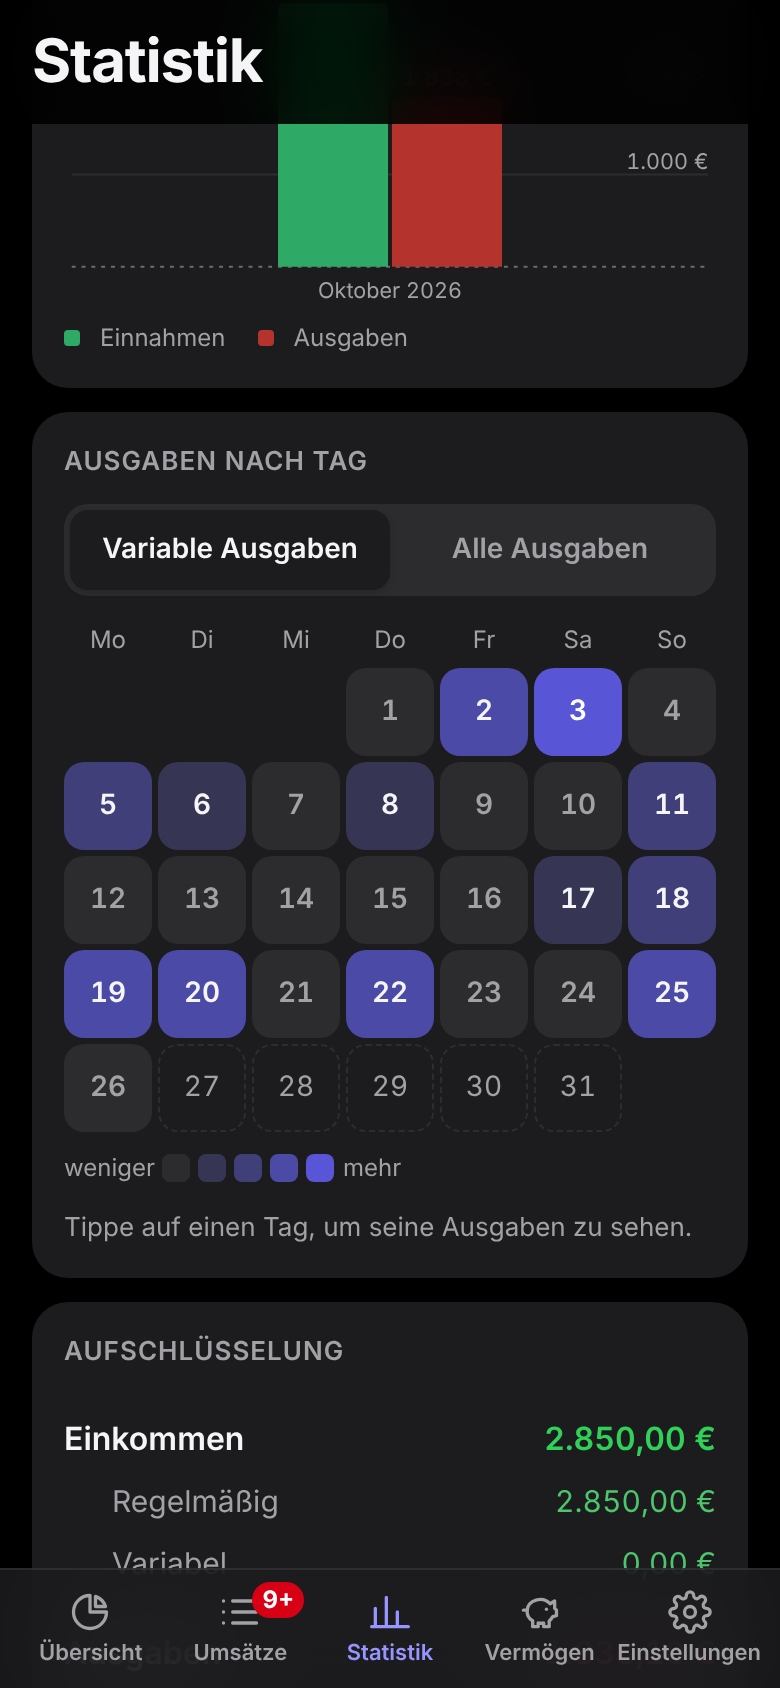
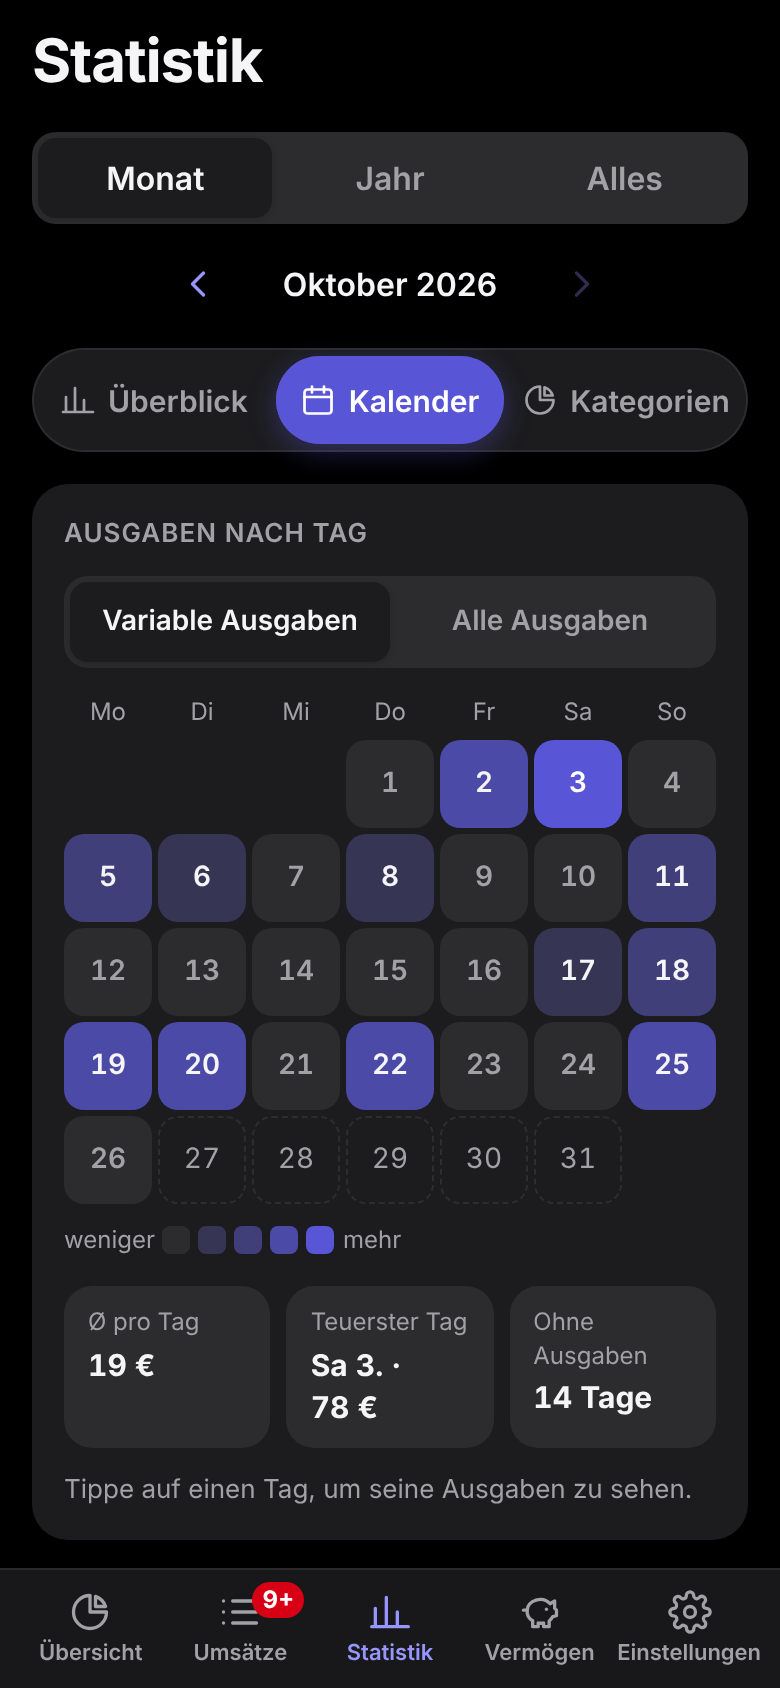
Statistics in sections: overview, calendar, categories; month facts in calendar (1.16.0)
Claude-Session: https://claude.ai/code/session_01QAm8hbi2NbAH5nWhDhnN4o

diff --git a/web/app-stats.js b/web/app-stats.js
@@ -26,6 +26,17 @@ function viewStats() {
       <button class="icon-btn" data-snav="1" aria-label="${t("vor")}" ${canNext ? "" : "disabled"}>${icon("chevronRight")}</button>
     </div>` : `<div class="period-label">${esc(label)}</div>`}`;
 
+  // Abschnitte statt einer langen Seite; den Kalender gibt es nur für Monat und Jahr
+  const sections = [["over", "chart", t("Überblick")], ...(p !== "all" ? [["cal", "calendar", t("Kalender")]] : []), ["cats", "pie", t("Kategorien")]];
+  const sec = sections.some(([k]) => k === state.statsSection) ? state.statsSection : "over";
+  html += `<nav class="sec-tabs" aria-label="${t("Bereich der Statistik")}" style="--n:${sections.length};--i:${sections.findIndex(([k]) => k === sec)}">
+      <span class="sec-pill" aria-hidden="true"></span>
+      ${sections.map(([k, ic, name]) => `<button data-ssec="${k}" aria-pressed="${k === sec}">${icon(ic)}<span>${name}</span></button>`).join("")}
+    </nav>`;
+  if (sec === "cal") return html + `<div class="sec-body">${heatCard(p, value)}</div>`;
+  if (sec === "cats") return html + `<div class="sec-body">${expenseCard(s, T)}</div>`;
+  html += `<div class="sec-body">`;
+
   // Kennzahlen mit Vergleich
   // Jahre werden über den Monatsschnitt verglichen (das erste Jahr ist oft unvollständig).
   const cmp = (curTotal, prevTotal, goodUp) => {
@@ -77,7 +88,6 @@ function viewStats() {
     </section>`;
   }
 
-  if (p !== "all") html += heatCard(p, value);
 
   // Aufschlüsselung
   const row = (label, cents, sub = false, cls = "") => `<div class="line-row ${sub ? "sub-row" : ""}"><span>${label}</span><span class="${cls}">${fmt(cents)}</span></div>`;
@@ -119,8 +129,7 @@ function viewStats() {
     }) : ""}
   </section>`;
 
-  html += expenseCard(s, T);
-  return html;
+  return html + `</div>`;
 }
 
 // ------------------------------------------------------------------ Heatmap (Statistik)
@@ -138,6 +147,15 @@ function heatCard(p, value) {
     const h = A.heatMonth(state.ctx, value, mode);
     const sel = h.days.find((d) => d.iso === state.heatDay);
     const dayLabel = (d) => new Date(d.iso + "T12:00:00").toLocaleDateString(locale, { weekday: "long", day: "numeric", month: "long" });
+    // Kennzahlen zum Monat (nur vergangene Tage inkl. heute)
+    const past = h.days.filter((d) => !d.future);
+    const top = past.reduce((a, d) => (!a || d.cents > a.cents ? d : a), null);
+    const free = past.filter((d) => !d.cents).length;
+    const facts = past.length ? `<div class="heat-facts">
+        <div><span>${t("Ø pro Tag")}</span><b>${fmt0(h.total / past.length)}</b></div>
+        <div><span>${t("Teuerster Tag")}</span><b>${top && top.cents ? `${WEEKDAYS[new Date(top.iso + "T12:00:00").getDay()]} ${ord(top.day)} · ${fmt0(top.cents)}` : "–"}</b></div>
+        <div><span>${t("Ohne Ausgaben")}</span><b>${tn(free, "{n} Tag", "{n} Tage")}</b></div>
+      </div>` : "";
     return `<section class="card heat">
       <h2>${t("Ausgaben nach Tag")}</h2>
       ${modeSeg}
@@ -150,6 +168,7 @@ function heatCard(p, value) {
               aria-label="${esc(dayLabel(d))}: ${fmt(d.cents)}">${d.day}</button>`).join("")}
       </div>
       ${legend}
+      ${facts}
       ${sel ? `<div class="heat-day">
         <div class="line-row"><span>${esc(dayLabel(sel))}</span><span>${fmt(sel.cents)}</span></div>
         ${sel.items.length ? `<div class="list">${[...sel.items].sort((a, b) => a.amount_cents - b.amount_cents).map(txRow).join("")}</div>`

diff --git a/web/styles.css b/web/styles.css
@@ -961,3 +961,26 @@ button.hm:active { transform: scale(0.94); }
   margin: 4px 16px 10px; padding: 8px 12px; border-radius: 12px; background: var(--surface); box-shadow: inset 0 0 0 1.5px var(--accent-soft); font-size: 13px; }
 .demo-banner a { color: var(--accent); font-weight: 600; text-decoration: none; position: relative; }
 .demo-banner a::after { content: ""; position: absolute; inset: -14px -10px; }
+
+/* Statistik: Abschnitte (Überblick · Kalender · Kategorien) – Pille gleitet zum gewählten Abschnitt */
+.sec-tabs { position: relative; display: grid; grid-template-columns: repeat(var(--n), minmax(0, 1fr)); gap: 4px;
+  padding: 4px; margin: 2px 0 16px; border-radius: 999px; background: var(--surface);
+  box-shadow: inset 0 0 0 1px var(--line); }
+.sec-pill { position: absolute; top: 4px; bottom: 4px; left: 4px; border-radius: 999px; background: var(--accent-fill);
+  width: calc((100% - 8px - (var(--n) - 1) * 4px) / var(--n));
+  transform: translateX(calc(var(--i) * (100% + 4px))); transition: transform 260ms var(--ease-out);
+  box-shadow: 0 4px 14px color-mix(in srgb, var(--accent-fill) 35%, transparent); }
+.sec-tabs button { position: relative; z-index: 1; display: flex; align-items: center; justify-content: center; gap: 6px;
+  min-height: 44px; border-radius: 999px; font-weight: 600; font-size: 15px; color: var(--muted); transition: color 200ms; }
+.sec-tabs button .ic { width: 18px; height: 18px; flex: none; }
+.sec-tabs button[aria-pressed="true"] { color: #fff; background: var(--accent-fill); }
+.sec-tabs.moving button { background: transparent; }   /* während die Pille gleitet */
+.sec-tabs button:active { transform: scale(0.97); }
+.sec-body { animation: sec-in 260ms var(--ease-out); }
+@keyframes sec-in { from { opacity: 0; transform: translateY(6px); } to { opacity: 1; transform: none; } }
+@media (prefers-reduced-motion: reduce) { .sec-pill { transition: none; } .sec-body { animation: none; } }
+@media (max-width: 360px) { .sec-tabs button .ic { display: none; } }
+.heat-facts { display: grid; grid-template-columns: repeat(3, minmax(0, 1fr)); gap: 8px; margin-top: 14px; }
+.heat-facts > div { background: var(--surface-2); border-radius: 14px; padding: 10px 12px; min-width: 0; }
+.heat-facts span { display: block; font-size: 12px; color: var(--muted); }
+.heat-facts b { display: block; font-size: 15px; margin-top: 2px; font-variant-numeric: tabular-nums; }

diff --git a/web/app-start.js b/web/app-start.js
@@ -21,6 +21,21 @@ document.addEventListener("click", async (e) => {
 
   const per = e.target.closest("[data-period]");
   if (per) { state.statsPeriod = per.dataset.period; return render(); }
+  const ssec = e.target.closest("[data-ssec]");
+  if (ssec) {
+    if (ssec.getAttribute("aria-pressed") === "true") return;
+    state.statsSection = ssec.dataset.ssec;
+    // Pille erst gleiten lassen, dann den Abschnitt neu zeichnen (ohne Bewegung: sofort)
+    const nav = ssec.closest(".sec-tabs");
+    const calm = window.matchMedia?.("(prefers-reduced-motion: reduce)").matches;
+    if (nav && !calm) {
+      nav.classList.add("moving");
+      nav.style.setProperty("--i", [...nav.querySelectorAll("[data-ssec]")].indexOf(ssec));
+      nav.querySelectorAll("[data-ssec]").forEach((b) => b.setAttribute("aria-pressed", b === ssec));
+      await new Promise((r) => setTimeout(r, 200));
+    }
+    return render();
+  }
   const sn = e.target.closest("[data-snav]");
   if (sn) return navStats(Number(sn.dataset.snav));
 
@@ -44,7 +59,7 @@ document.addEventListener("click", async (e) => {
 
   const act = e.target.closest("[data-action]")?.dataset.action;
   if (act === "goto-stats") {
-    state.view = "stats"; state.statsPeriod = "month"; state.statsMonth = state.month;
+    state.view = "stats"; state.statsPeriod = "month"; state.statsMonth = state.month; state.statsSection = "over";
     window.scrollTo(0, 0); return render();
   }
   if (act === "setup") return openSetupWizard();
@@ -54,9 +69,8 @@ document.addEventListener("click", async (e) => {
   }
   if (act === "goto-stats-cats") {
     state.view = "stats"; state.statsPeriod = "month"; state.statsMonth = state.month; state.statsExpTab = "cat";
-    render();
-    document.getElementById("cat-card-stats")?.scrollIntoView({ block: "start" });
-    return;
+    state.statsSection = "cats";
+    window.scrollTo(0, 0); return render();
   }
   if (act === "goto-inbox") { state.view = "transactions"; state.txFilter = "open"; window.scrollTo(0, 0); return render(); }
   if (act === "goto-settings") { state.view = "settings"; state.settingsPage = null; render(); return viewSettingsAsync(); }

diff --git a/web/app.js b/web/app.js
@@ -5,7 +5,7 @@
 
 // Version dieser App-Dateien (gleich wie __version__ in app/__init__.py). Weicht die
 // Version des Servers ab, zeigt das Handy noch eine zwischengespeicherte Fassung.
-const APP_VERSION = "1.15.1";
+const APP_VERSION = "1.16.0";
 const A = window.Analytics;
 const { t, tn, ord, locale } = window.I18N;
 
@@ -39,6 +39,7 @@ const state = {
   month: thisMonth,
   statsPeriod: "month",
   statsExpTab: "cat",       // Statistik → Ausgaben: "cat" (Kategorien) oder "fixed"
+  statsSection: "over",     // Statistik-Abschnitt: "over" (Überblick), "cal" (Kalender), "cats" (Kategorien)
   heatMode: "variable",     // Heatmap: "variable" (nur variable Ausgaben) oder "all"
   heatDay: null,            // in der Heatmap angetippter Tag (YYYY-MM-DD)
   statsMonth: thisMonth,

diff --git a/web/i18n.js b/web/i18n.js
@@ -250,6 +250,12 @@
     "inkl. ca. {amount} Zinsen": "incl. approx. {amount} interest",
     "{month}-Rate abgebucht ✓": "{month} instalment paid ✓",
     "{month}-Rate noch nicht abgebucht": "{month} instalment not paid yet",
+    "Überblick": "Overview",
+    "Kalender": "Calendar",
+    "Bereich der Statistik": "Statistics section",
+    "Ø pro Tag": "Ø per day",
+    "Teuerster Tag": "Priciest day",
+    "Ohne Ausgaben": "No spending",
     "noch {n} Tag": "{n} day left",
     "noch {n} Tage": "{n} days left",
     "Stand": "Balance",

diff --git a/tools/screenshots.py b/tools/screenshots.py
@@ -78,8 +78,10 @@ async def main():
         await p2.screenshot(path=f"{OUT}/{next(shots)}.png")
         # Ausgaben-Kalender (Statistik → Monat)
         await tab("stats"); await page.click("[data-period=month]"); await page.wait_for_timeout(300)
-        await page.evaluate("document.querySelector('.hm-grid').closest('.card').scrollIntoView({block:'center'})")
+        await page.click("[data-ssec=cal]"); await page.wait_for_timeout(600)
+        await page.evaluate("window.scrollTo(0, 0)")
         await shot()
+        await page.click("[data-ssec=over]"); await page.wait_for_timeout(400)
         # Kategorie-Vorschlag und Wischen (Umsätze → Zuordnen, eine Zeile nach links gezogen)
         await tab("transactions"); await page.click("[data-txfilter=open]"); await page.wait_for_timeout(300)
         await page.evaluate("""() => {

diff --git a/app/__init__.py b/app/__init__.py
@@ -2,4 +2,4 @@
 
 # Bei jeder Änderung, die auf den Pi geht, erhöhen (1.0.0 -> 1.0.1 für Korrekturen,
 # 1.1.0 für Neues). Dieselbe Nummer steht als APP_VERSION in web/app.js (Test prüft das).
-__version__ = "1.15.1"
+__version__ = "1.16.0"
